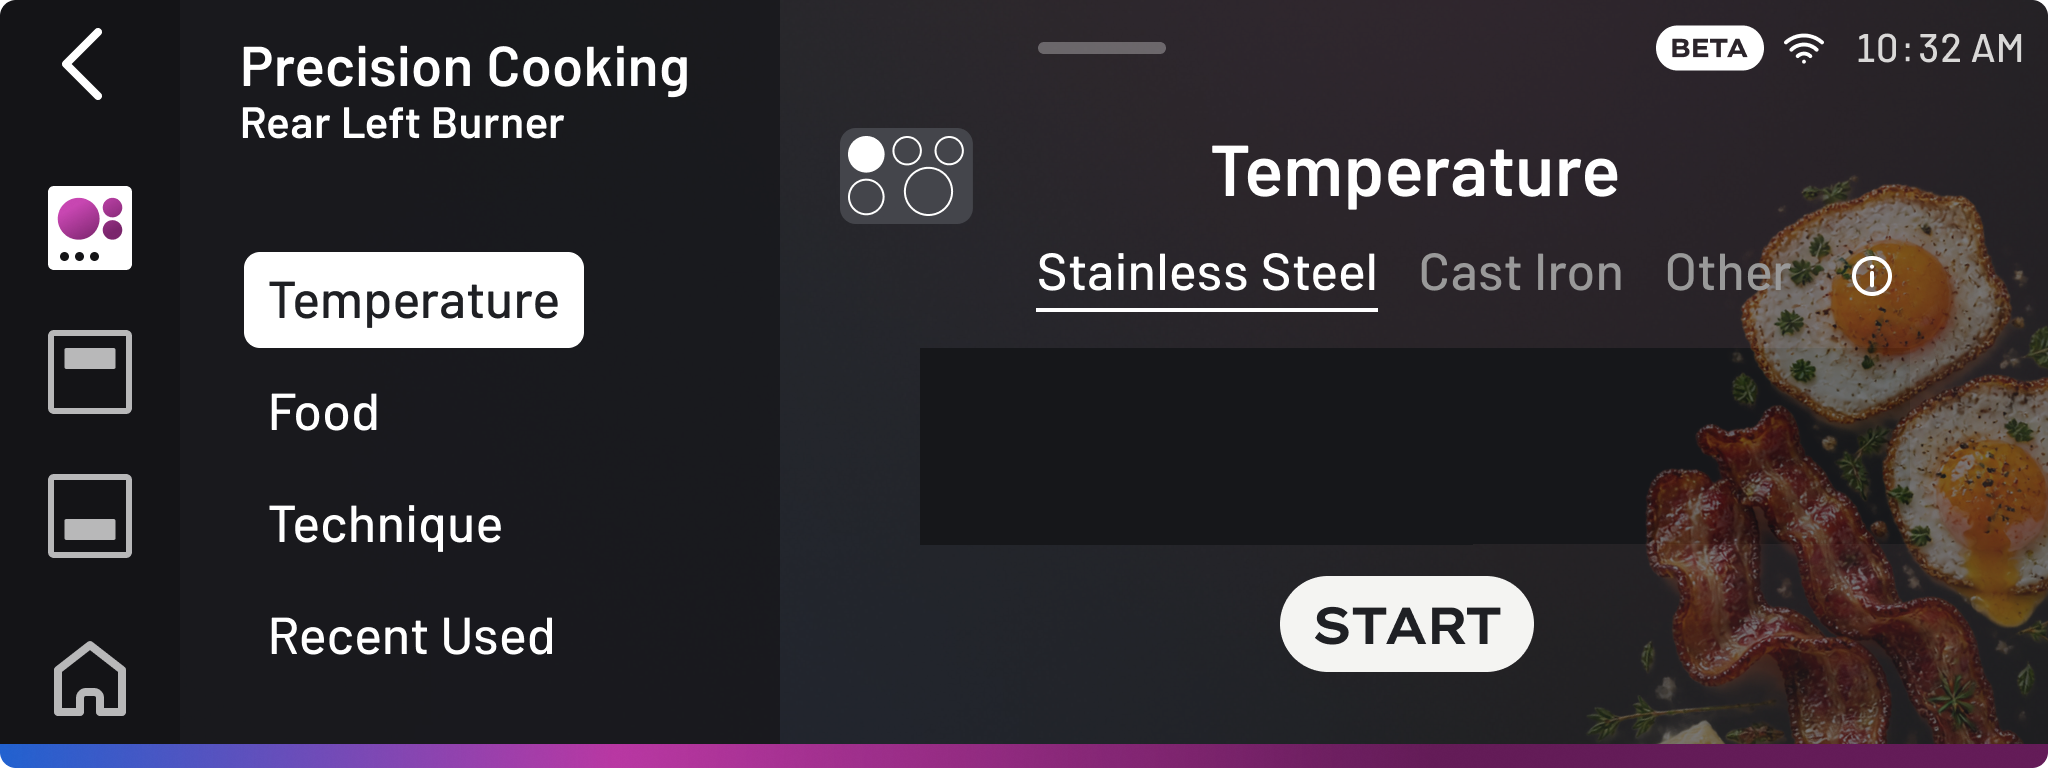
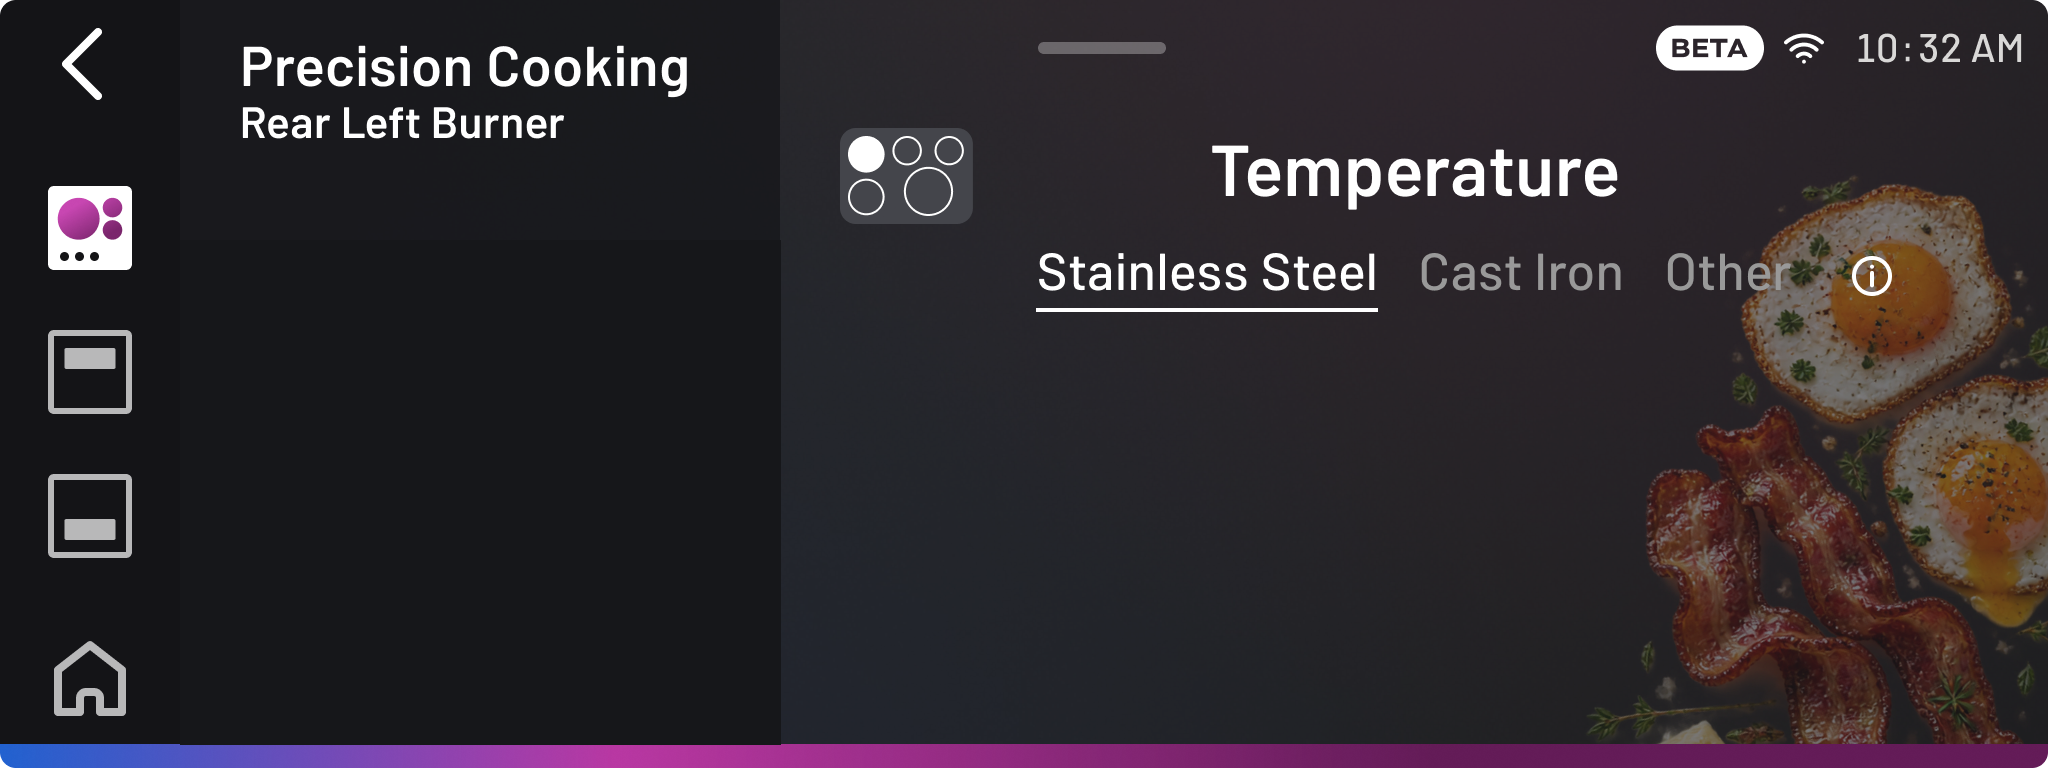
fix(task3): remove dark background behind temperature numbers and align exact Figma design

diff --git a/index.html b/index.html
@@ -578,7 +578,7 @@
 
             <!-- 4. SCREEN: 3B-PCTEMPERATURE (HORIZONTAL PICKER & START BUTTON - FIGMA 3198:27479) -->
             <div class="t3-screen" id="t3ScreenTemperature" hidden>
-              <img class="t3-screen-bg" src="./assets/task3-pc-bg-temperature.png?v=20261105-clean" alt="Precision Cooking Temperature">
+              <img class="t3-screen-bg" src="./assets/task3-pc-bg-temperature.png?v=20261105-clean3" alt="Precision Cooking Temperature">
               <!-- Back button (< Precision Cooking) -->
               <button type="button" class="t3-back-btn" id="t3BtnBackFromTemp" aria-label="Back to Burners"></button>
 

diff --git a/styles.css b/styles.css
@@ -3056,8 +3056,6 @@ input,
   width: 493px;
   height: 98px;
   z-index: 50;
-  -webkit-mask-image: linear-gradient(to right, transparent 0%, black 15%, black 85%, transparent 100%);
-  mask-image: linear-gradient(to right, transparent 0%, black 15%, black 85%, transparent 100%);
   overflow: hidden;
 }
 
@@ -3131,14 +3129,14 @@ input,
 }
 
 .t3-picker-item.is-active .t3-item-num {
-  font-size: 88px;
+  font-size: 90px;
   font-weight: 500;
   opacity: 1;
   letter-spacing: -1px;
 }
 
 .t3-picker-item.is-active .t3-item-unit {
-  font-size: 40px;
+  font-size: 44px;
   font-weight: 700;
   margin-left: 6px;
   margin-top: -34px;
